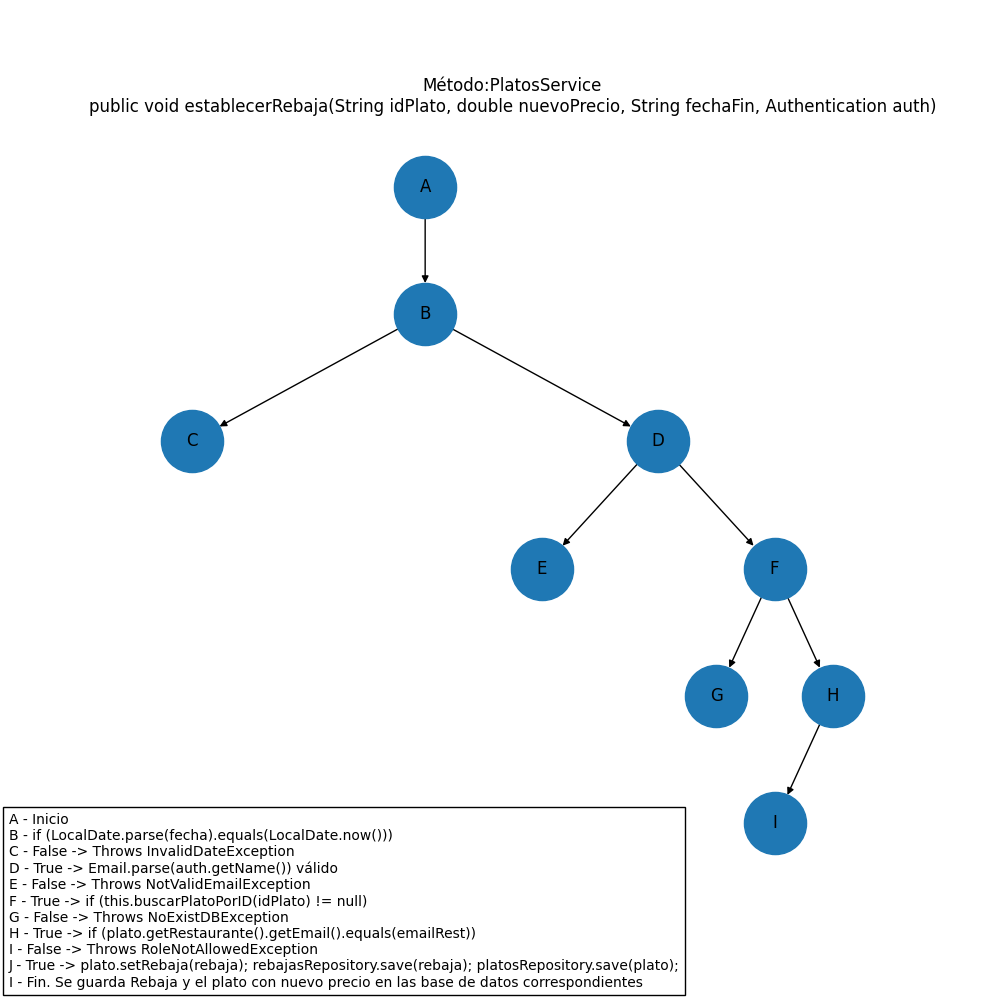
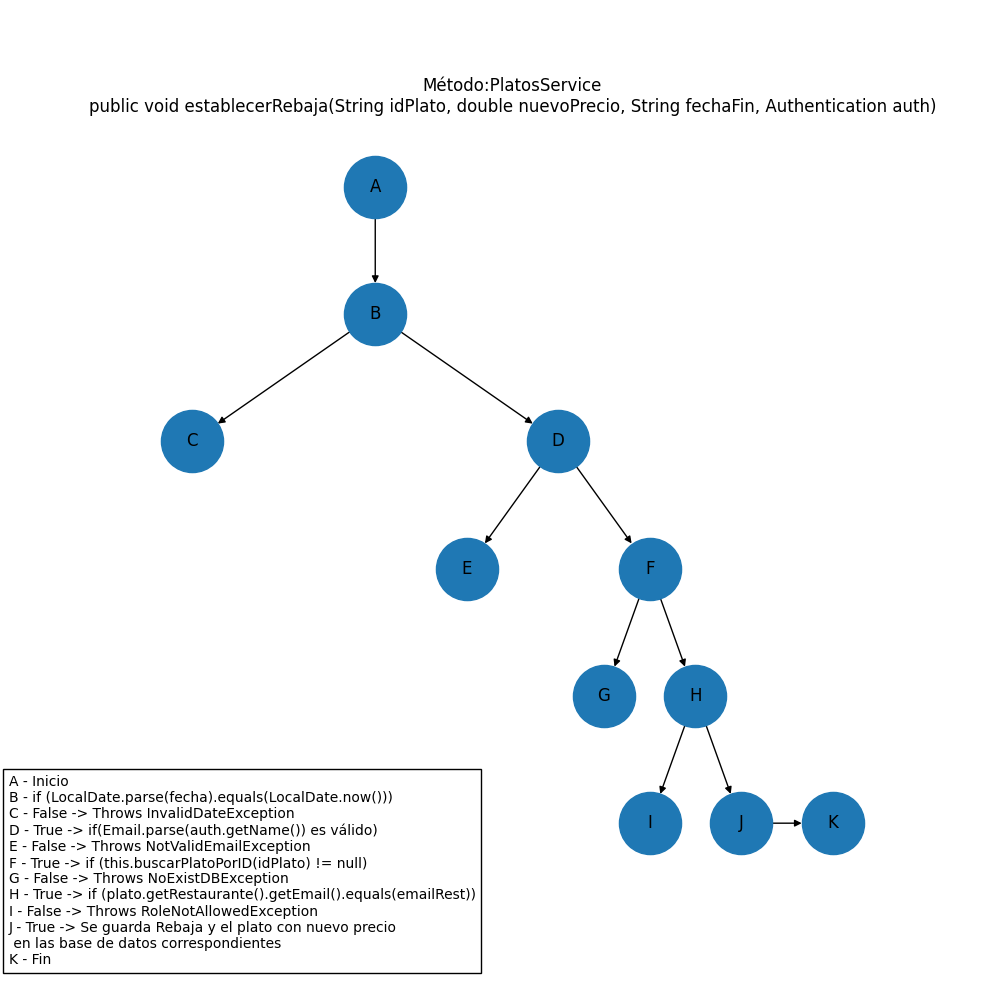
grafo cambiado

diff --git a/util/imprimirGrafos/grafo.py b/util/imprimirGrafos/grafo.py
@@ -16,7 +16,8 @@ G.add_edge("D", "F")
 G.add_edge("F", "G")
 G.add_edge("F", "H")
 G.add_edge("H", "I")
-
+G.add_edge("H", "J")
+G.add_edge("J", "K")
 pos = {
     "A": (0, 6),
     "B": (0, 5),
@@ -27,6 +28,8 @@ pos = {
     "G": (2.5, 2),
     "H": (3.5, 2),
     "I": (3, 1),
+    "J": (4, 1),
+    "K": (5, 1)
 }
 
 
@@ -36,19 +39,18 @@ legend_text = (
     "A - Inicio\n"
     "B - if (LocalDate.parse(fecha).equals(LocalDate.now()))\n"
     "C - False -> Throws InvalidDateException\n"
-    "D - True -> Email.parse(auth.getName()) válido\n"
+    "D - True -> if(Email.parse(auth.getName()) es válido)\n"
     "E - False -> Throws NotValidEmailException\n"
     "F - True -> if (this.buscarPlatoPorID(idPlato) != null)\n"
     "G - False -> Throws NoExistDBException\n"
     "H - True -> if (plato.getRestaurante().getEmail().equals(emailRest))\n"
     "I - False -> Throws RoleNotAllowedException\n"
-    "J - True -> plato.setRebaja(rebaja); rebajasRepository.save(rebaja); "
-    "platosRepository.save(plato);\n"
-    "I - Fin. Se guarda Rebaja y el plato con nuevo precio en las base de datos correspondientes"
+    "J - True -> Se guarda Rebaja y el plato con nuevo precio\n en las base de datos correspondientes\n"
+    "K - Fin"
 )
 plt.figure(figsize=(10, 10))
 plt.text(
-    -0.15, 0.1,
+    -0.15, 0.15,
     legend_text,
     transform=plt.gca().transAxes,
     va='top',